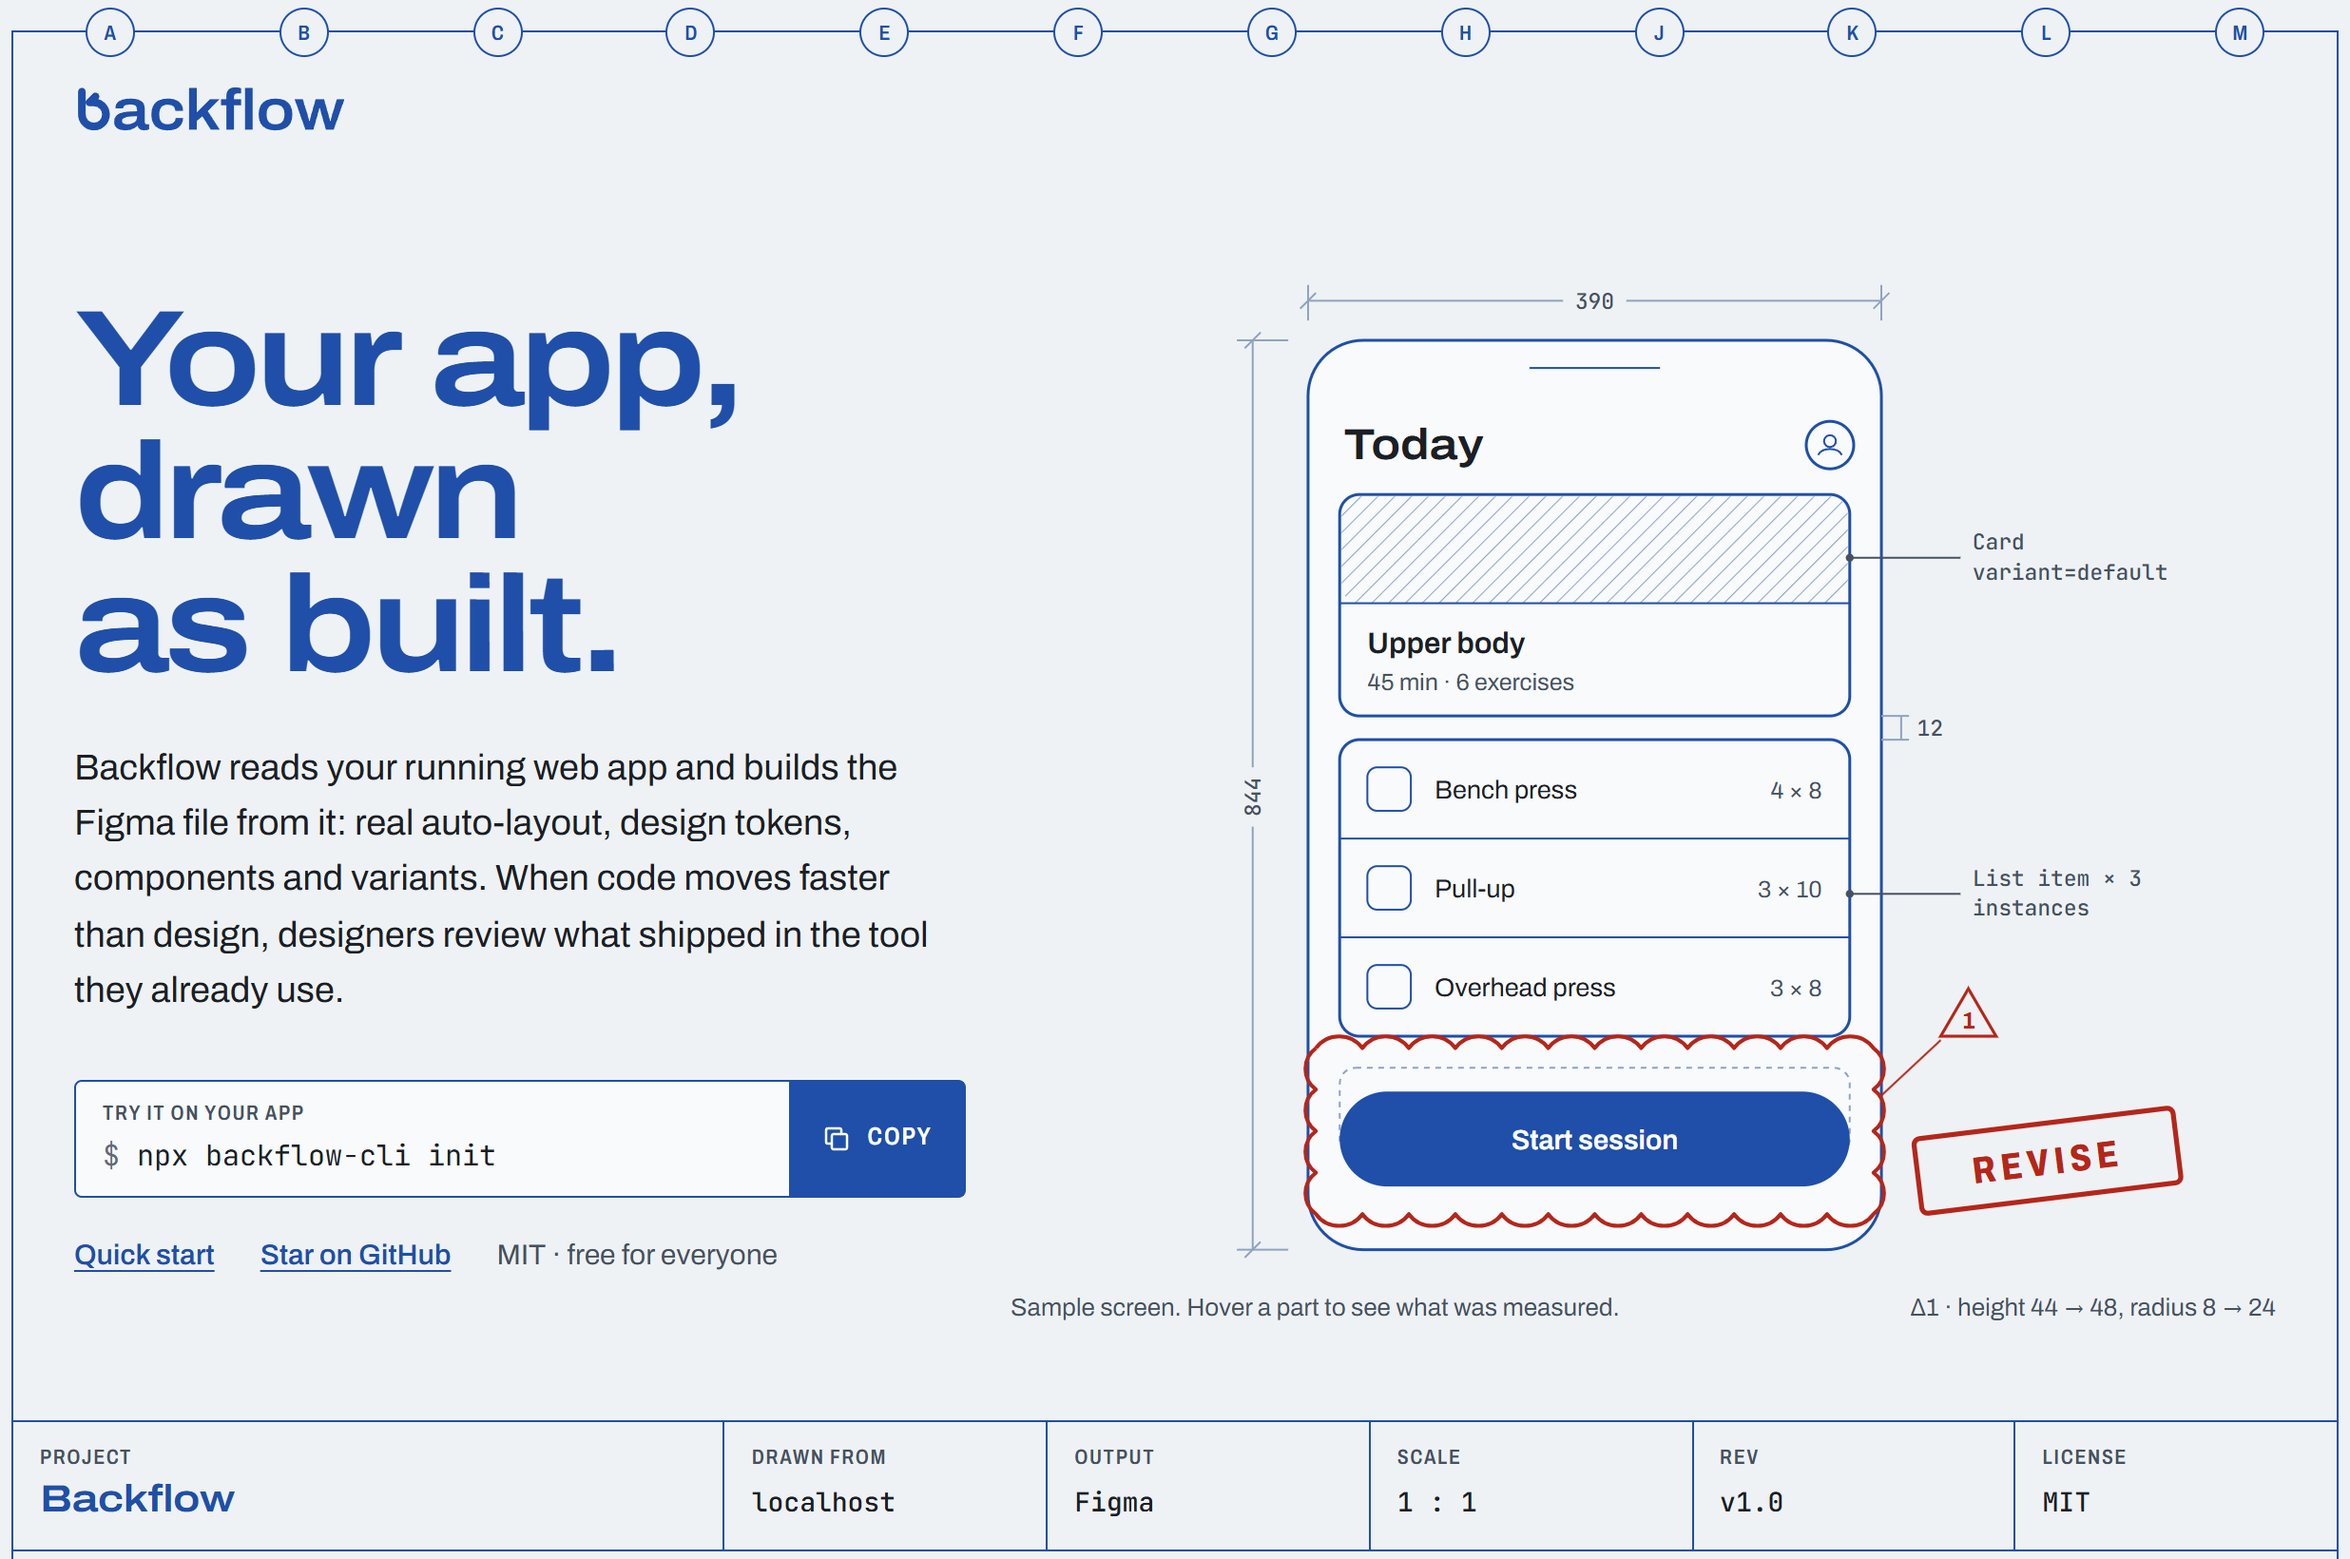
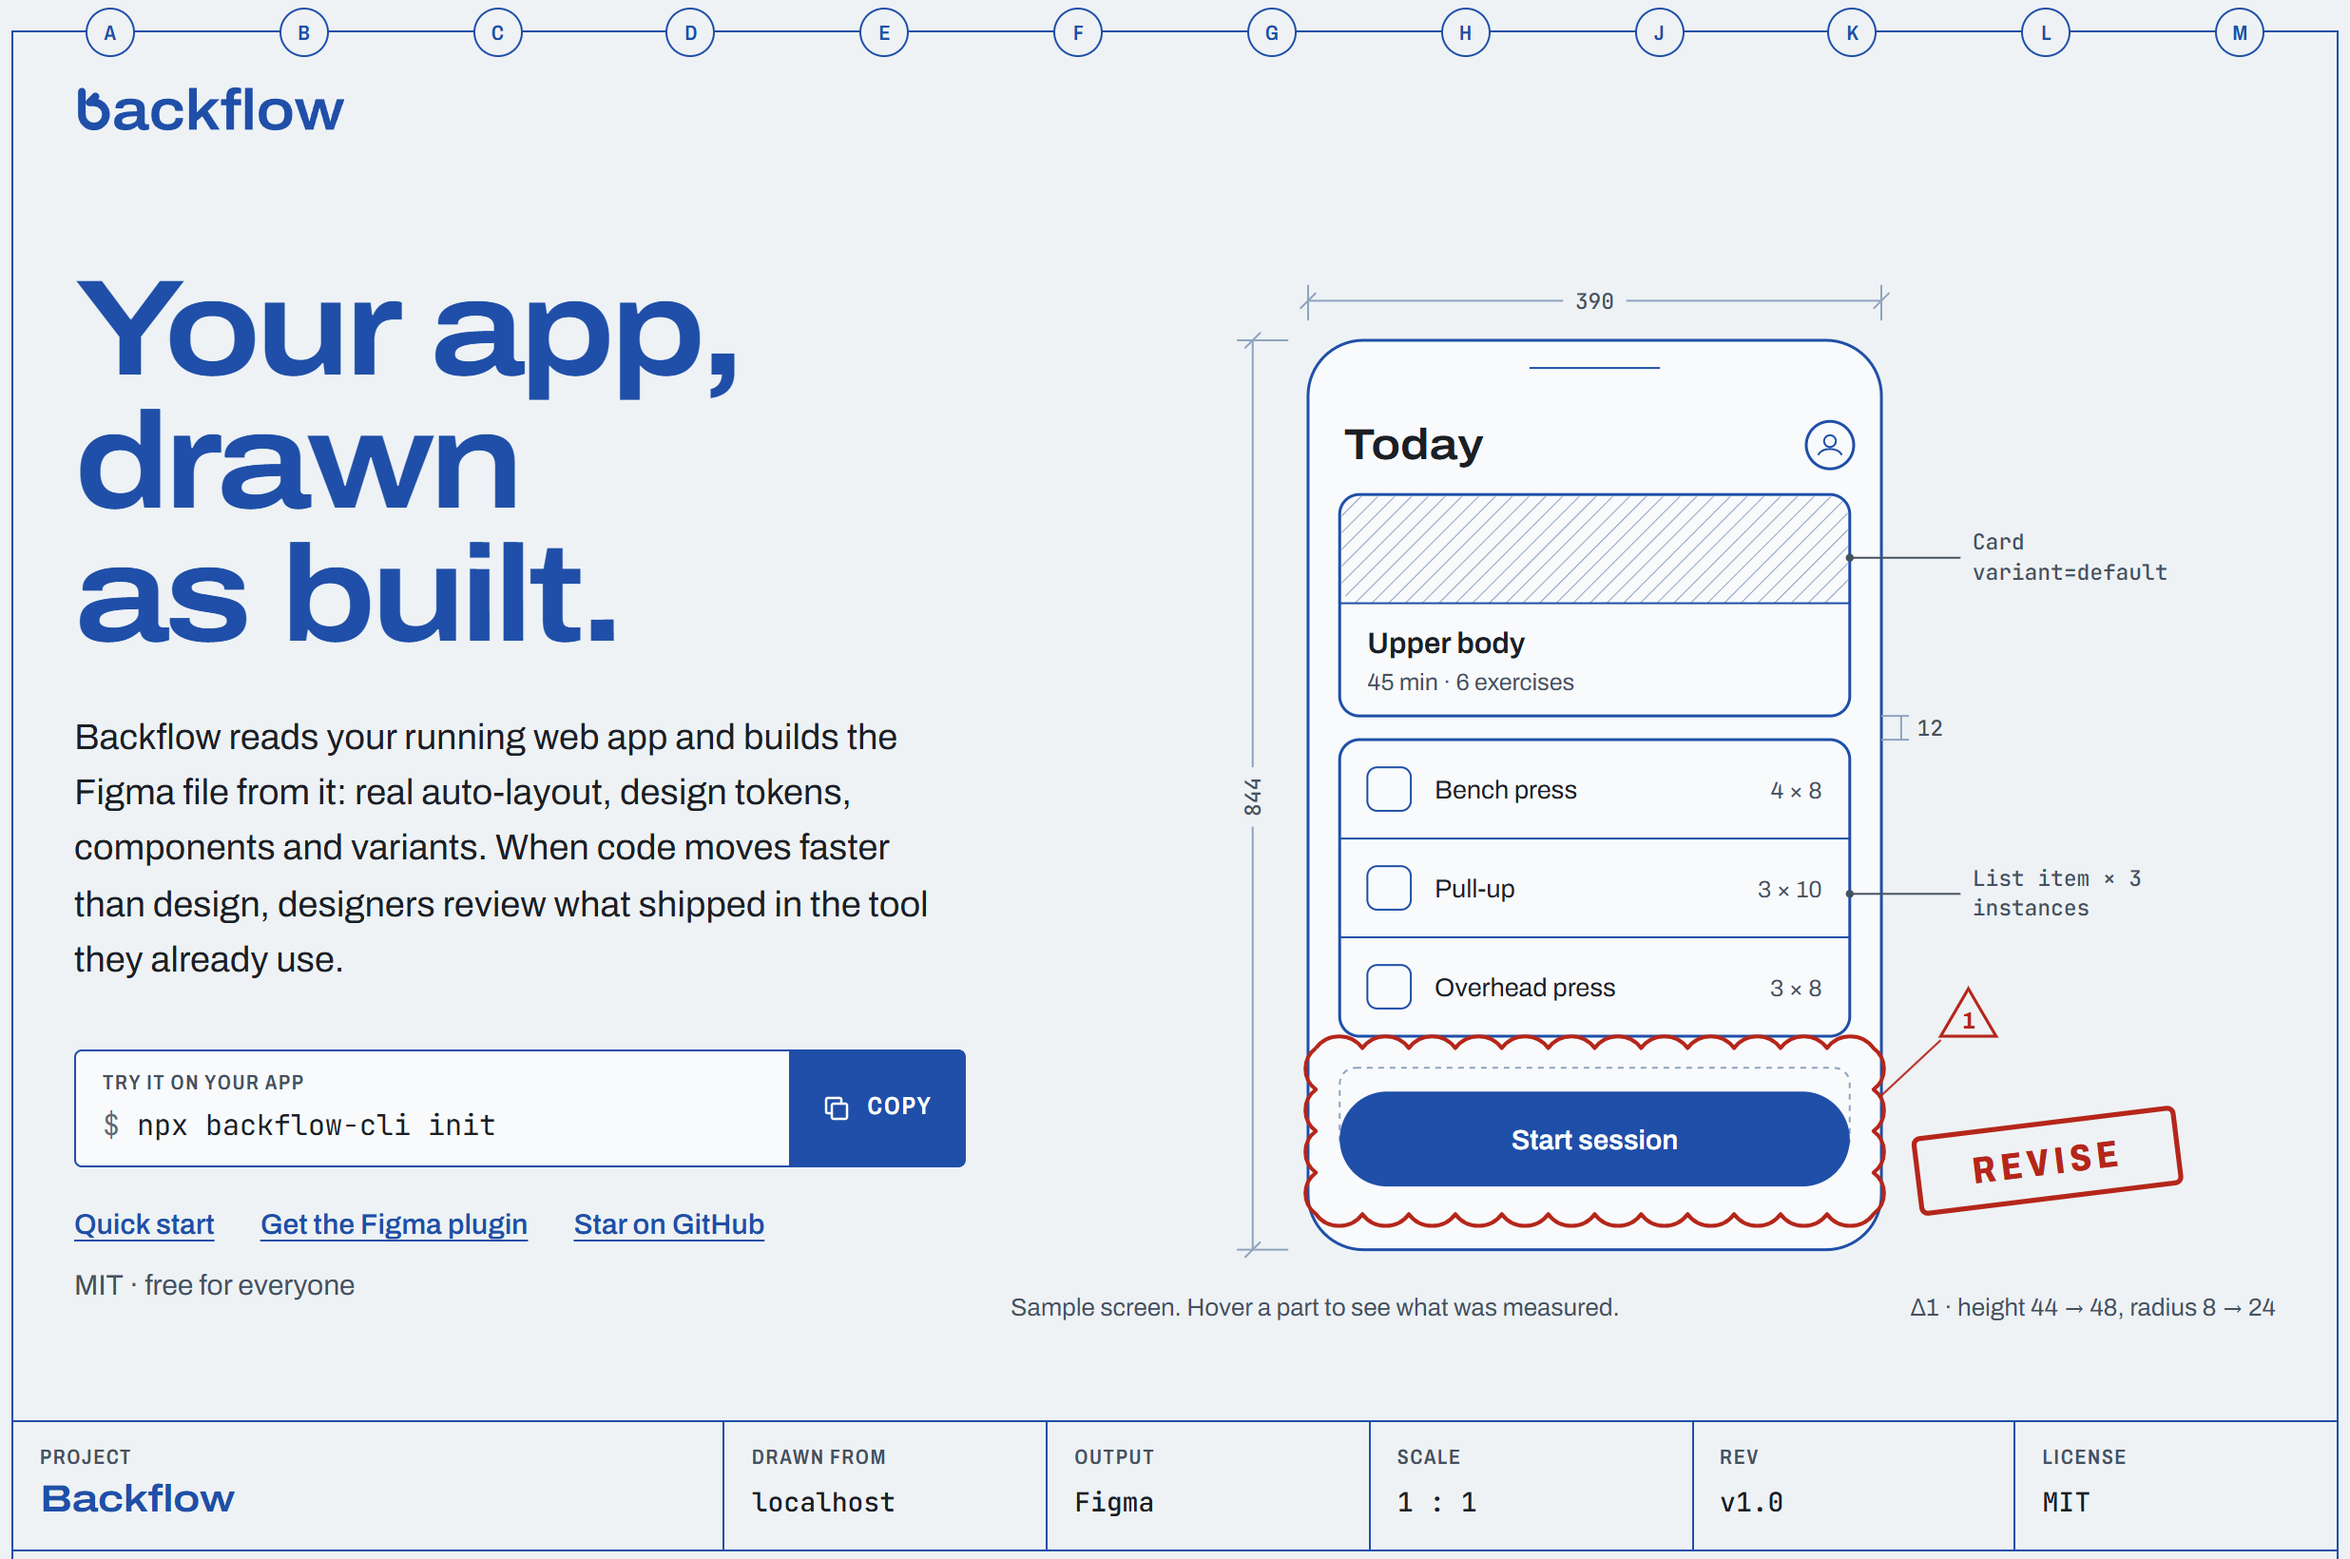
release: v1.0.1, Figma Community plugin ID and links

Changed region(s): [[0.0311, 0.4665, 0.4049, 0.653], [0.0311, 0.1866, 0.3115, 0.4354], [0.0311, 0.653, 0.4361, 0.8396]]

diff --git a/site/index.html b/site/index.html
@@ -329,6 +329,7 @@ html { scrollbar-color: var(--bf-line-strong) var(--bf-sheet); }
           </div>
           <div class="links">
             <a href="https://github.com/asiln/backflow#quick-start">Quick start</a>
+            <a href="https://www.figma.com/community/plugin/1701263956497261578">Get the Figma plugin</a>
             <a href="https://github.com/asiln/backflow">Star on GitHub</a>
             <span class="muted">MIT · free for everyone</span>
           </div>
@@ -594,6 +595,7 @@ html { scrollbar-color: var(--bf-line-strong) var(--bf-sheet); }
           <p>Backflow is MIT licensed and community run. There's no paid tier and no account. If it saves your team a week of redrawing screens, help keep it that way.</p>
         </div>
         <nav class="acts" aria-label="Get involved">
+          <a href="https://www.figma.com/community/plugin/1701263956497261578"><b>Get the Figma plugin</b><span>Free on Figma Community. No network access.</span><svg viewBox="0 0 16 16" fill="none" stroke="currentColor" stroke-width="1.25" stroke-linecap="round" stroke-linejoin="round" aria-hidden="true"><path d="M3 8h10M9 4l4 4-4 4"/></svg></a>
           <a href="https://github.com/asiln/backflow"><b>Star and follow</b><span>Releases, roadmap and changelog on GitHub.</span><svg viewBox="0 0 16 16" fill="none" stroke="currentColor" stroke-width="1.25" stroke-linecap="round" stroke-linejoin="round" aria-hidden="true"><path d="M3 8h10M9 4l4 4-4 4"/></svg></a>
           <a href="https://github.com/asiln/backflow/blob/main/CONTRIBUTING.md"><b>Contribute</b><span>Fixtures, extractor fixes, plugin features, docs.</span><svg viewBox="0 0 16 16" fill="none" stroke="currentColor" stroke-width="1.25" stroke-linecap="round" stroke-linejoin="round" aria-hidden="true"><path d="M3 8h10M9 4l4 4-4 4"/></svg></a>
           <a href="https://github.com/asiln/backflow/discussions"><b>Discuss</b><span>Questions, ideas, show what you lifted.</span><svg viewBox="0 0 16 16" fill="none" stroke="currentColor" stroke-width="1.25" stroke-linecap="round" stroke-linejoin="round" aria-hidden="true"><path d="M3 8h10M9 4l4 4-4 4"/></svg></a>

diff --git a/README.md b/README.md
@@ -9,6 +9,7 @@
 
 <p align="center">
   <a href="https://www.npmjs.com/package/backflow-cli"><img alt="npm" src="https://img.shields.io/npm/v/backflow-cli?style=flat-square&color=1f4fa8&label=npm"></a>
+  <a href="https://www.figma.com/community/plugin/1701263956497261578"><img alt="Figma Community" src="https://img.shields.io/badge/Figma%20Community-Backflow-1f4fa8?style=flat-square"></a>
   <a href="LICENSE"><img alt="MIT license" src="https://img.shields.io/badge/license-MIT-1f4fa8?style=flat-square"></a>
   <img alt="Runs on localhost only" src="https://img.shields.io/badge/runs%20on-localhost%20only-23704a?style=flat-square">
   <img alt="Node 18 or newer" src="https://img.shields.io/badge/node-%E2%89%A518-1b1f24?style=flat-square">
@@ -29,7 +30,7 @@ npx backflow-cli extract screens.json  # -> out/screens.figma.json, plus a repor
 npx backflow-cli plugin                # copies the Figma plugin to ./backflow-figma-plugin
 ```
 
-In **Figma desktop**: Plugins → Development → Import plugin from manifest → `backflow-figma-plugin/manifest.json`. Run **Backflow** and drop `out/screens.figma.json` anywhere on its window.
+In **Figma**: install **[Backflow from Figma Community](https://www.figma.com/community/plugin/1701263956497261578)**, run it, and drop `out/screens.figma.json` anywhere on its window. (To run the copy in this repo instead: Plugins → Development → Import plugin from manifest → `plugin-lift/manifest.json`, or the folder `npx backflow-cli plugin` makes.)
 
 For a design system too, harvest tokens and components first, then drop all three files on the plugin (Tokens → Components → Screens):
 

diff --git a/CHANGELOG.md b/CHANGELOG.md
@@ -1,5 +1,11 @@
 # Changelog
 
+## v1.0.1 (2026-11-08)
+
+- Backflow is on Figma Community: https://www.figma.com/community/plugin/1701263956497261578
+- The plugin manifest carries its registered Figma ID, so local copies (`npx backflow-cli plugin`, the release zip) match the published plugin.
+- README, site and CLI help link to the Community plugin; site at https://backflow-site.vercel.app.
+
 ## v1.0.0 (2026-11)
 
 First release as **Backflow** (formerly Figma Lift).
